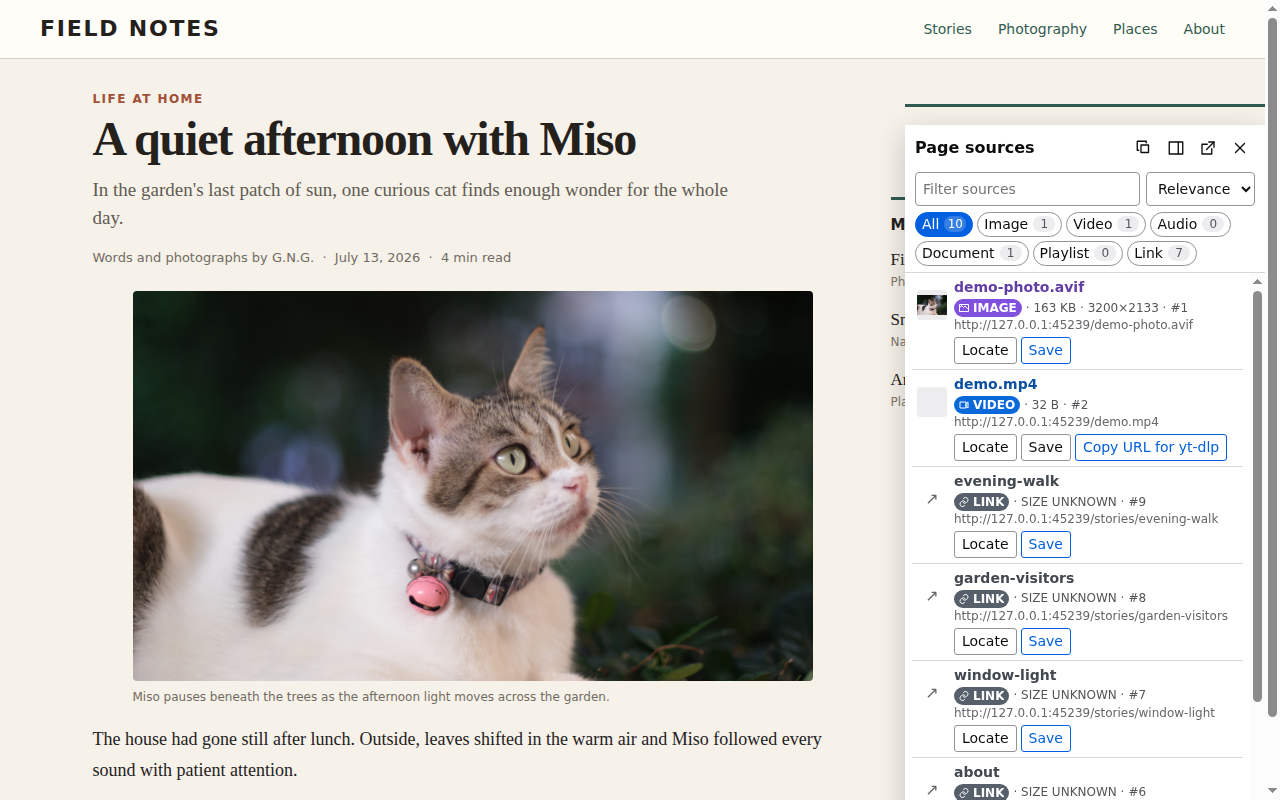
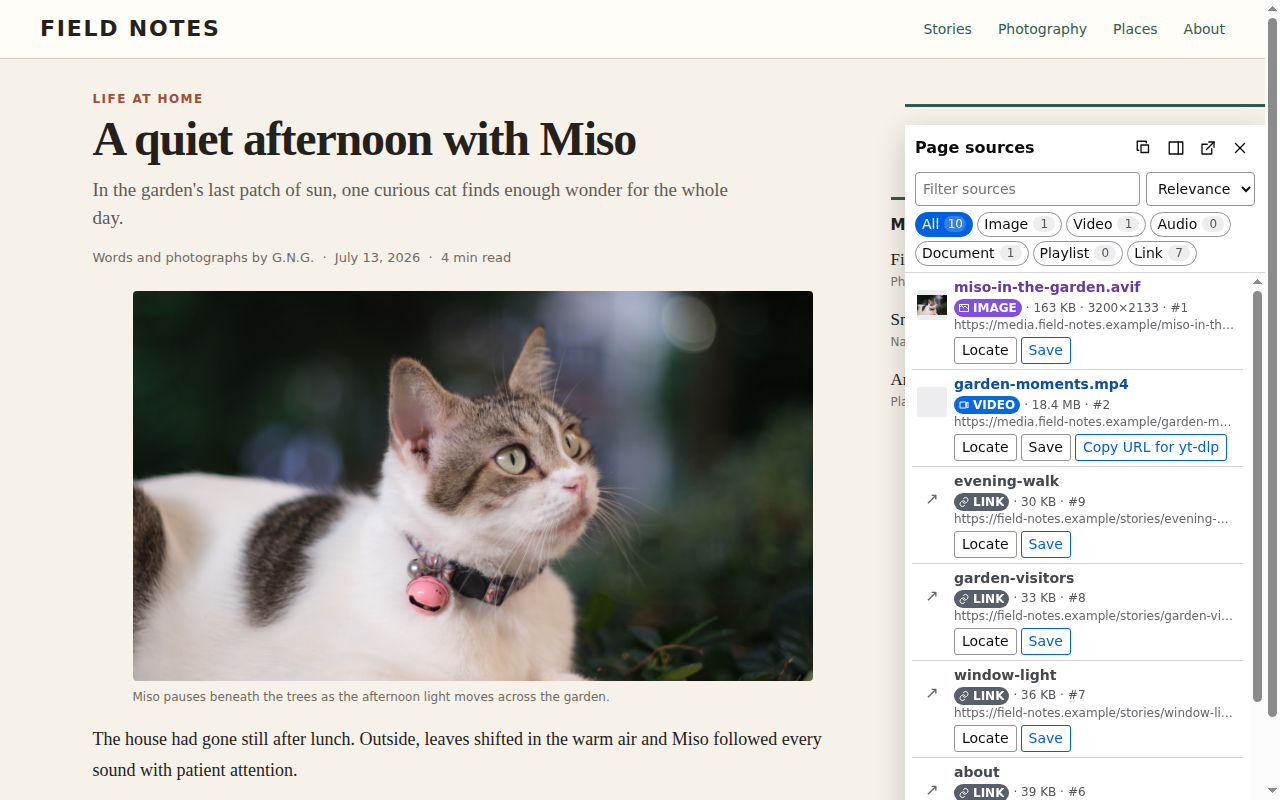
Finish non-code repository cleanup

diff --git a/scripts/generate-store-screenshots.js b/scripts/generate-store-screenshots.js
@@ -175,6 +175,50 @@ const seedShowcase = (port, optionsTarget) =>
     }).then(() => chrome.runtime.sendMessage({ type: "OPTIONS_LOADED" })).then(() => "seeded")`,
   );
 
+/** @param {number} port @param {string} demoTarget */
+const polishPageSourcesForListing = (port, demoTarget) =>
+  cdp.evalInTarget(
+    port,
+    demoTarget,
+    `(() => {
+      const root = document.querySelector("#save-in-source-panel")?.shadowRoot;
+      if (!root) throw new Error("Page Sources panel missing");
+      const featured = new Map([
+        ["/demo-photo.avif", {
+          name: "miso-in-the-garden.avif",
+          url: "https://media.field-notes.example/miso-in-the-garden.avif"
+        }],
+        ["/demo.mp4", {
+          name: "garden-moments.mp4",
+          url: "https://media.field-notes.example/garden-moments.mp4",
+          size: "18.4 MB"
+        }]
+      ]);
+      let updated = 0;
+      root.querySelectorAll(".source-link").forEach((link) => {
+        const pathname = new URL(link.href).pathname;
+        const replacement = featured.get(pathname) || {
+          name: link.querySelector(".name")?.textContent,
+          url: "https://field-notes.example" + pathname
+        };
+        const name = link.querySelector(".name");
+        const url = link.querySelector(".url");
+        const size = link.querySelector(".source-size");
+        if (name && replacement.name) name.textContent = replacement.name;
+        if (url) {
+          url.textContent = replacement.url;
+          url.title = replacement.url;
+        }
+        if (size && replacement.size) size.textContent = replacement.size;
+        else if (size && size.textContent?.toLowerCase().includes("unknown")) {
+          size.textContent = 24 + updated * 3 + " KB";
+        }
+        updated += 1;
+      });
+      return updated;
+    })()`,
+  );
+
 const main = async () => {
   if (process.argv.includes("--help")) {
     process.stdout.write(
@@ -314,6 +358,7 @@ const main = async () => {
         ),
       "showcase Page Sources discovery",
     );
+    await polishPageSourcesForListing(port, demoTarget);
     await cdp.evalInTarget(port, demoTarget, "scrollTo(0, 0); document.activeElement?.blur()");
     await capture(port, demoTarget, outputDir, SCREENSHOTS[2]);
 

diff --git a/test/clean-generated.test.ts b/test/clean-generated.test.ts
@@ -1,0 +1,40 @@
+import { existsSync, mkdirSync, mkdtempSync, rmSync, writeFileSync } from "node:fs";
+import { tmpdir } from "node:os";
+import { join } from "node:path";
+import { createRequire } from "node:module";
+import { afterEach, describe, expect, test } from "vitest";
+
+const require = createRequire(import.meta.url);
+const { GENERATED_DIRECTORIES, cleanGenerated } = require("../scripts/clean-generated.js") as {
+  GENERATED_DIRECTORIES: readonly string[];
+  cleanGenerated: (root: string) => string[];
+};
+
+const roots: string[] = [];
+
+afterEach(() => roots.splice(0).forEach((root) => rmSync(root, { recursive: true, force: true })));
+
+describe("generated-output cleanup", () => {
+  test("removes only the declared generated directories", () => {
+    const root = mkdtempSync(join(tmpdir(), "save-in-clean-generated-"));
+    roots.push(root);
+    for (const directory of GENERATED_DIRECTORIES) {
+      mkdirSync(join(root, directory), { recursive: true });
+      writeFileSync(join(root, directory, "artifact.txt"), "generated");
+    }
+    writeFileSync(join(root, "keep.txt"), "source");
+
+    expect(cleanGenerated(root)).toEqual(GENERATED_DIRECTORIES);
+    expect(GENERATED_DIRECTORIES.every((directory) => !existsSync(join(root, directory)))).toBe(
+      true,
+    );
+    expect(existsSync(join(root, "keep.txt"))).toBe(true);
+  });
+
+  test("is idempotent when generated output is absent", () => {
+    const root = mkdtempSync(join(tmpdir(), "save-in-clean-generated-empty-"));
+    roots.push(root);
+
+    expect(cleanGenerated(root)).toEqual([]);
+  });
+});

diff --git a/scripts/clean-generated.js b/scripts/clean-generated.js
@@ -1,0 +1,36 @@
+// @ts-check
+
+const fs = require("node:fs");
+const path = require("node:path");
+
+const GENERATED_DIRECTORIES = Object.freeze(["coverage", "dist", "web-ext-artifacts"]);
+
+/** @param {string} root */
+const cleanGenerated = (root) => {
+  const resolvedRoot = path.resolve(root);
+  const removed = [];
+  for (const directory of GENERATED_DIRECTORIES) {
+    const target = path.resolve(resolvedRoot, directory);
+    if (path.dirname(target) !== resolvedRoot) {
+      throw new Error(`Refusing to clean outside the repository: ${target}`);
+    }
+    if (!fs.existsSync(target)) continue;
+    fs.rmSync(target, { recursive: true, force: true });
+    removed.push(directory);
+  }
+  return removed;
+};
+
+const main = () => {
+  const root = path.resolve(__dirname, "..");
+  const removed = cleanGenerated(root);
+  process.stdout.write(
+    removed.length
+      ? `Removed generated output: ${removed.join(", ")}\n`
+      : "Generated output is already clean.\n",
+  );
+};
+
+if (require.main === module) main();
+
+module.exports = { GENERATED_DIRECTORIES, cleanGenerated };

diff --git a/scripts/build-source-package.js b/scripts/build-source-package.js
@@ -157,7 +157,6 @@ async function main() {
       ".oxlintrc.json",
       ".github/workflows/ci.yml",
       "assets/README.md",
-      "assets/icons/notification-info.svg",
       "CHANGELOG.md",
       "e2e/chrome.e2e.mjs",
       "e2e/firefox.e2e.mjs",

diff --git a/scripts/check-release-package.js b/scripts/check-release-package.js
@@ -207,7 +207,6 @@ check(
 const sourceBuild = read("scripts/build-source-package.js");
 for (const required of [
   '"assets/README.md"',
-  '"assets/icons/notification-info.svg"',
   '"e2e"',
   '"CHANGELOG.md"',
   '"tsconfig.worker.json"',

diff --git a/docs/STORE-DESCRIPTIONS.md b/docs/STORE-DESCRIPTIONS.md
@@ -6,7 +6,7 @@ date below. Keep the short description aligned with `extensionDescription` in
 `_locales/en/messages.json`.
 
 - Version: 4.0.0
-- Last reviewed: 2026-07-14
+- Last reviewed: 2026-07-15
 - Listing name: Save In
 
 ## Short description
@@ -34,6 +34,7 @@ Features
 - Search and filter local download history, with JSON and spreadsheet-safe CSV/TSV export.
 - Optionally record matching ordinary Firefox downloads in Save In history.
 - Connect other extensions through an explicitly approved, versioned integration API.
+- Optionally let compatible in-browser agents inspect or update settings and start routed downloads through experimental WebMCP tools while Options is open.
 - Optionally send selected save data to a user-configured HTTPS webhook after a Save In download starts.
 
 Save In can use the page URL as the Referer for matching downloads when you enable that option. Firefox protects exact metadata and content requests so MIME, final-URL, and SHA-256 variables remain available, while retaining its native browser download whenever the content was not already fetched for hashing. Experimental routing of ordinary Firefox downloads works by cancelling a matching HTTP(S) download and starting a replacement. That replacement can lose POST bodies, temporary URLs, custom request context, or authentication, so enable it only for compatible downloads.
@@ -42,7 +43,7 @@ Browser security limits extensions to folders inside the configured default down
 
 Privacy and permissions
 
-Save In uses site access only to identify and fetch resources that you choose directly or configure site-scoped rules to save automatically. Settings, history, recovery state, and diagnostics remain on your device and are not sent to the developer. Save In contains no telemetry, advertising, remote code, or developer-operated service. Private Browsing activity is excluded from Save In history, diagnostics, and webhooks. Optional webhooks go directly to the HTTPS endpoint chosen by the user; automatic saves do not trigger them, and the options page states and previews the selected data before the feature is enabled.
+Save In uses site access only to identify and fetch resources that you choose directly or configure site-scoped rules to save automatically. Settings, history, recovery state, and diagnostics remain on your device and are not sent to the developer. Save In contains no telemetry, advertising, remote code, or developer-operated service. Private Browsing activity is excluded from Save In history, diagnostics, and webhooks. Optional webhooks go directly to the HTTPS endpoint chosen by the user; automatic saves do not trigger them, and the options page states and previews the selected data before the feature is enabled. In a browser that provides WebMCP, a compatible in-browser agent can read the complete saved configuration and invoke Save In tools only while Options is open. Save In adds no separate consent prompt; the browser or agent controls access and confirmation.
 
 Requires Firefox 121 or later.
 ```
@@ -64,6 +65,7 @@ Features
 - Search and filter local download history, with JSON and spreadsheet-safe CSV/TSV export.
 - Optionally record or route matching ordinary Chrome downloads before they are saved.
 - Connect other extensions through an explicitly approved, versioned integration API.
+- Optionally let compatible in-browser agents inspect or update settings and start routed downloads through experimental WebMCP tools while Options is open.
 - Optionally send selected save data to a user-configured HTTPS webhook after a Save In download starts.
 
 Chrome does not allow extensions to set a Referer directly on their own downloads. When the optional Referer filter matches, Save In instead applies the page URL only to its protected metadata and file fetches, holds that file in memory, and passes the resulting file to Chrome. MIME, final-URL, and SHA-256 variables remain available for these downloads. Chrome also cannot assign an extension-started download to its Incognito download context. A download requested through Save In from Incognito may therefore appear in the regular Chrome download manager, although Save In still excludes private activity from its own history and diagnostics.
@@ -72,7 +74,7 @@ Browser security limits extensions to folders inside the configured default down
 
 Privacy and permissions
 
-Save In uses site access only to identify and fetch resources that you choose directly or configure site-scoped rules to save automatically. Settings, history, recovery state, and diagnostics remain on your device and are not sent to the developer. Save In contains no telemetry, advertising, remote code, or developer-operated service. Optional webhooks go directly to the HTTPS endpoint chosen by the user; automatic saves do not trigger them, and the options page states and previews the selected data before the feature is enabled. Incognito activity is never sent to webhooks.
+Save In uses site access only to identify and fetch resources that you choose directly or configure site-scoped rules to save automatically. Settings, history, recovery state, and diagnostics remain on your device and are not sent to the developer. Save In contains no telemetry, advertising, remote code, or developer-operated service. Optional webhooks go directly to the HTTPS endpoint chosen by the user; automatic saves do not trigger them, and the options page states and previews the selected data before the feature is enabled. Incognito activity is never sent to webhooks. In a browser that provides WebMCP, a compatible in-browser agent can read the complete saved configuration and invoke Save In tools only while Options is open. Save In adds no separate consent prompt; the browser or agent controls access and confirmation.
 
 Requires Chrome 123 or later.
 ```
@@ -93,9 +95,9 @@ Webhooks are disabled by default and have no developer-operated endpoint. A user
 must enter a direct HTTPS URL, choose any optional page fields, and affirmatively
 enable the feature. The same panel states the always-sent fields and shows the
 resulting JSON payload. A request is sent only as a consequence of a Save In save
-command after Firefox accepts the download. Ordinary browser downloads and
-external-extension requests do not trigger delivery. Private Browsing activity
-never triggers delivery.
+command after Firefox accepts the download. Automatic Page Sources saves,
+ordinary browser downloads, and external-extension requests do not trigger
+delivery. Private Browsing activity never triggers delivery.
 
 The purpose-limited payload always contains the selected resource URL, the
 "save" event, and an ISO 8601 timestamp. Page URL, page title, and selected text

diff --git a/docs/INTEGRATIONS.md b/docs/INTEGRATIONS.md
@@ -158,9 +158,10 @@ Tools exist only while the options page is open and the browser provides WebMCP.
 Webhooks are an optional, user-configured notification for Save In downloads.
 They are disabled by default. A webhook is sent once after the browser accepts a
 non-private download started by a direct Save In command. Ordinary browser
-downloads, external Download API requests, private-window activity, failed
-preparations, and rejected downloads do not trigger one. Webhook failure never
-changes the download result, and Save In does not retry delivery.
+downloads, automatic Page Sources saves, external Download API requests,
+private-window activity, failed preparations, and rejected downloads do not
+trigger one. Webhook failure never changes the download result, and Save In
+does not retry delivery.
 
 The endpoint must be a direct HTTPS URL without embedded username/password
 credentials or a fragment. Save In sends a `POST` with `Content-Type:

diff --git a/assets/README.md b/assets/README.md
@@ -3,11 +3,6 @@
 This directory contains editable source artwork. It is included in the Mozilla
 source attachment but not in the executable extension package.
 
-`icons/notification-*.svg` are the 128×128 masters for regenerating
-Chrome-compatible raster notification icons. Generated runtime PNGs belong in
-the top-level `icons/` directory and must be referenced explicitly by the
-notification implementation before they are shipped.
-
 `icons/ic_archive_white_24px.svg` is the retained light archive glyph master.
 The extension currently ships only the icon variants referenced by its
 manifest, menus, options page, and notifications.

diff --git a/docs/RELEASE.md b/docs/RELEASE.md
@@ -14,6 +14,10 @@ Keep store data-use answers aligned with `PRIVACY.md`: Save In processes website
 content and browsing activity locally for direct saves, explicitly configured
 automatic saves, and history; sends neither to the developer; and executes no
 remote code.
+When WebMCP is available, disclose that a compatible in-browser agent can read
+the complete saved configuration and invoke Save In tools only while Options is
+open. Save In adds no separate consent prompt; the browser or agent controls
+access, confirmation, and its handling of returned data.
 
 Chrome's listing should disclose that Incognito activity is excluded from Save
 In history and diagnostics, while Chrome may show an Incognito save in its

diff --git a/README.md b/README.md
@@ -97,6 +97,9 @@ protocol, availability, and trust model.
    `e2e:firefox` remain available separately. Browser failures retain
    diagnostics in `dist/e2e-artifacts`.
 
+Run `npm run clean` to remove generated bundles, browser profiles, coverage
+reports, and packaged artifacts while keeping installed dependencies.
+
 ## Deployment
 
 `npm run build` creates the shared Manifest V3 ZIP in `web-ext-artifacts` for